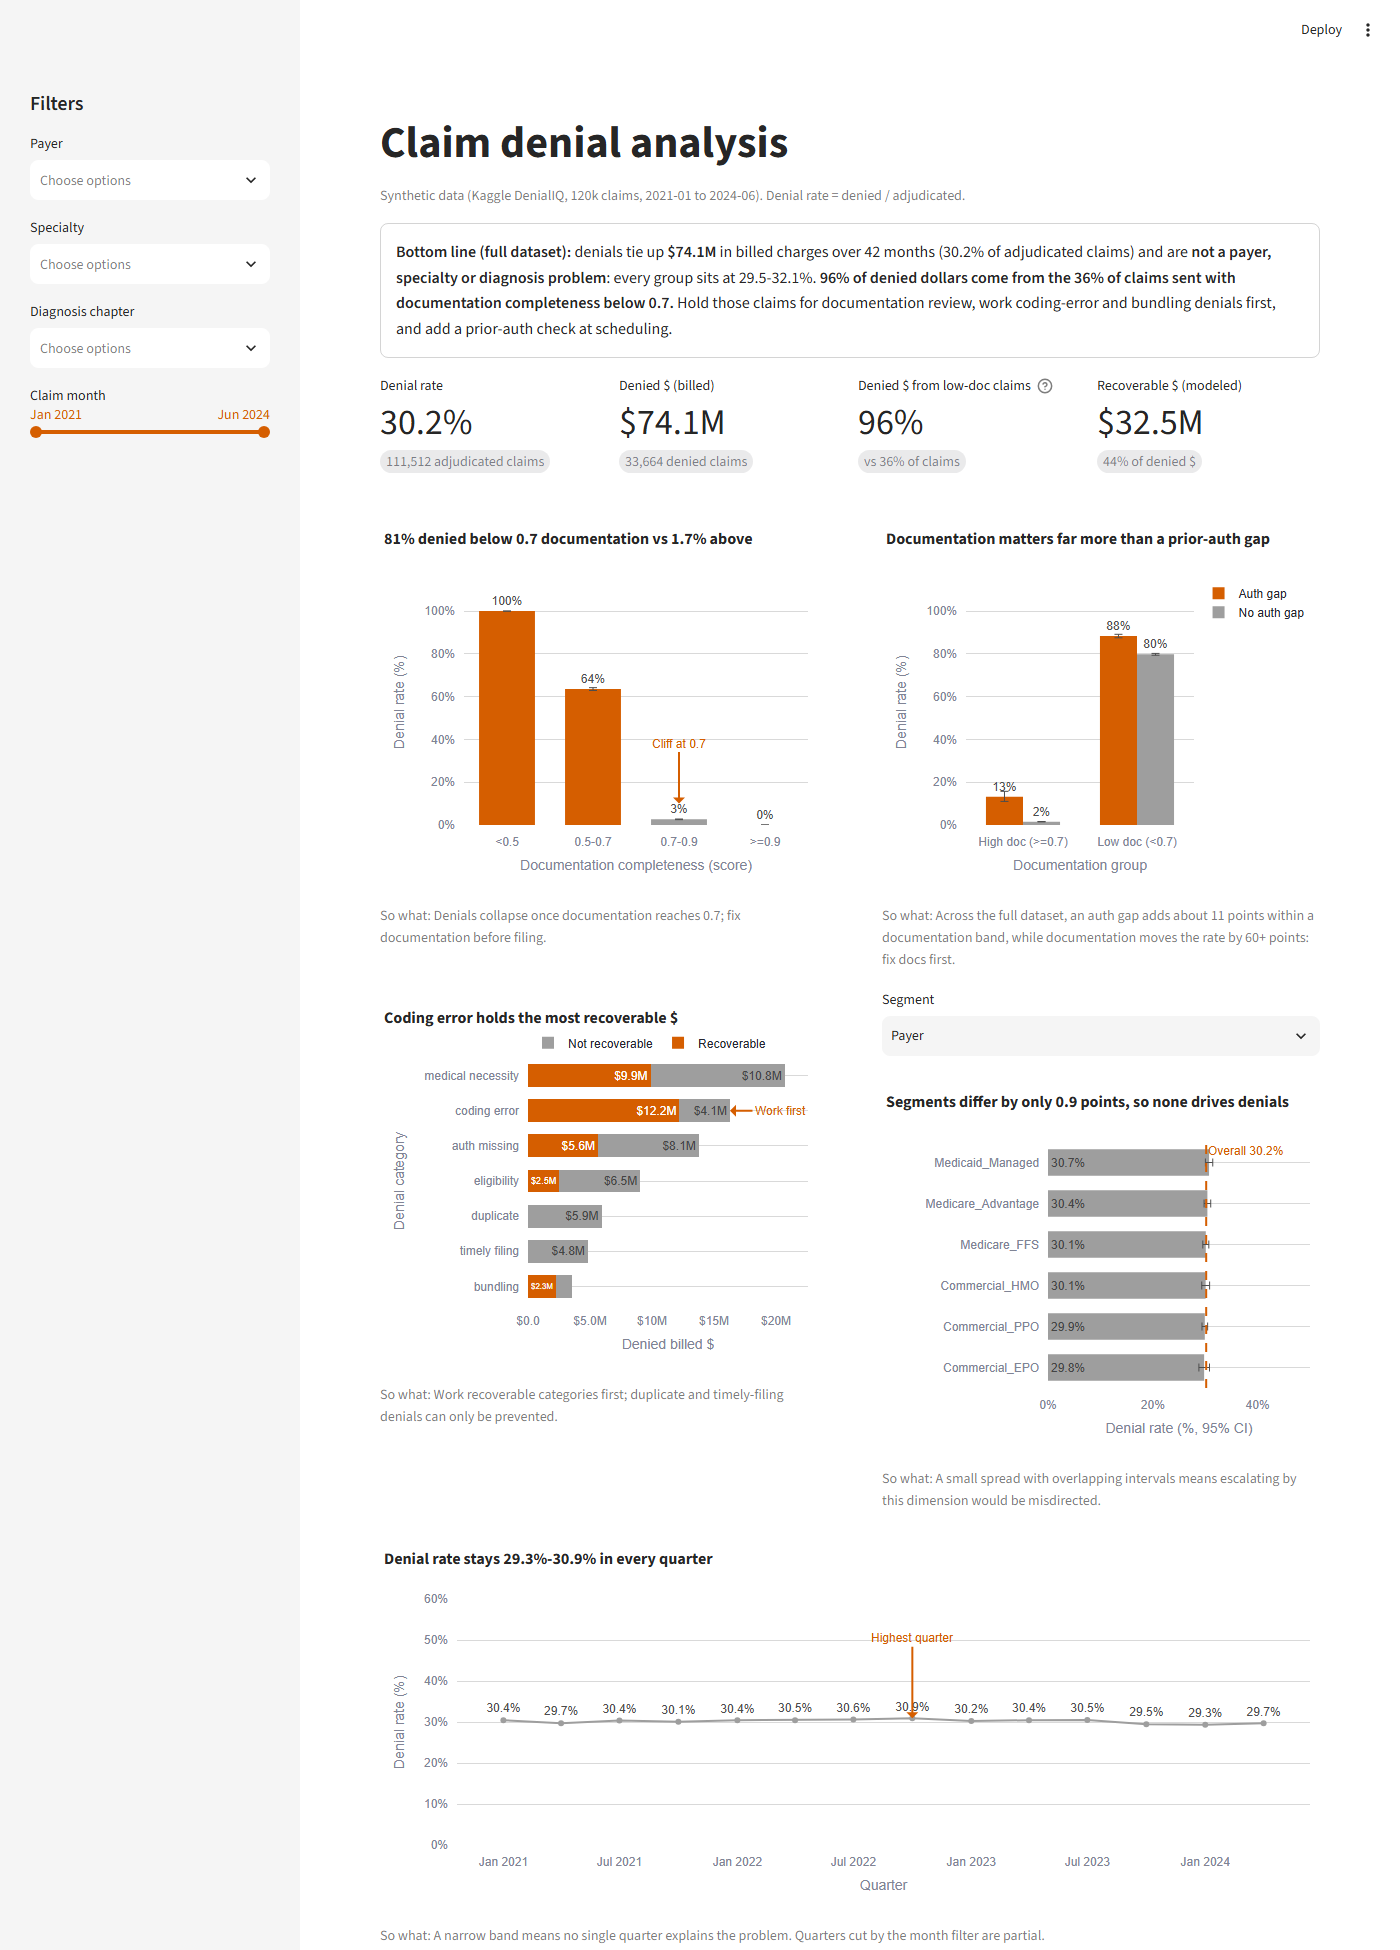
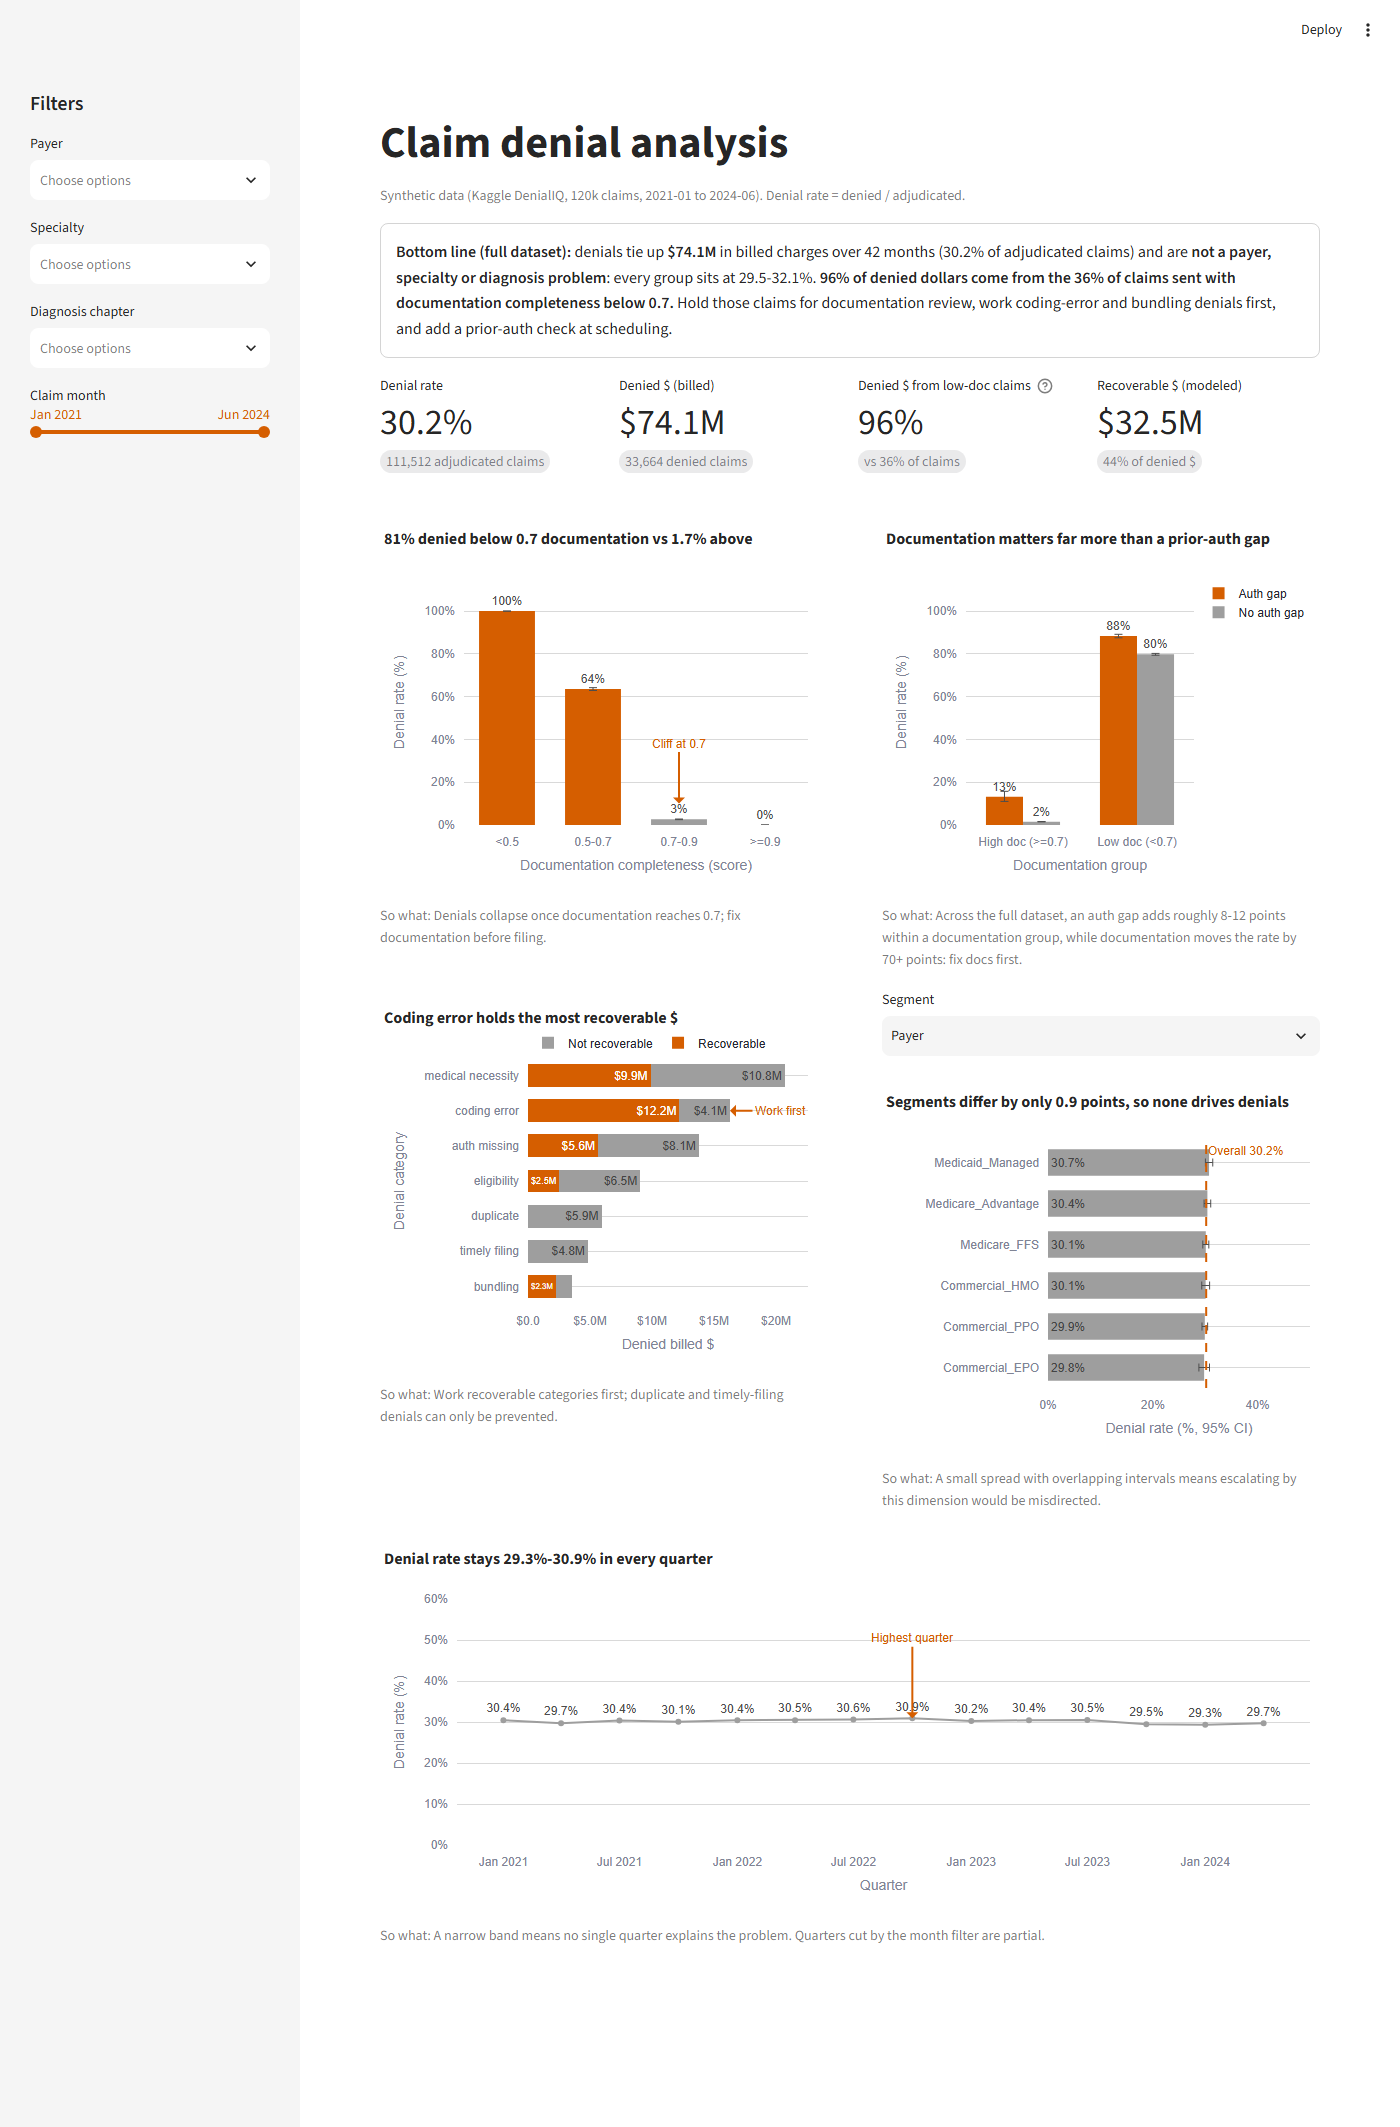
Review fixes: add matplotlib to requirements, derive figure numbers from outputs, accent only key bars, correct auth-gap caption, re-render screenshot

diff --git a/make_figures.py b/make_figures.py
@@ -51,14 +51,15 @@ ax.bar(x + 0.2, a.share_of_denied_usd, 0.4, color=[GREY, ACCENT])
 for xi, v in zip(x - 0.2, a.share_of_claims): ax.text(xi, v + 0.02, f"{v:.0%}", ha="center", fontsize=9)
 for xi, v in zip(x + 0.2, a.share_of_denied_usd): ax.text(xi, v + 0.02, f"{v:.0%}", ha="center", fontsize=9)
 ax.set_xticks(x, ["Adequate doc (>=0.7)", "Low doc (<0.7)"]); ax.yaxis.set_major_formatter(lambda v, _: f"{v:.0%}"); ax.set_ylim(0, 1.1)
-save(f, "denied_dollar_share", "light bar = share of claims, dark bar = share of denied dollars.")
+save(f, "denied_dollar_share", "hold claims below 0.7 for review. Light bar = share of claims, dark bar = share of denied $.")
 
 # 3. payers are flat
 p = rd("02_by_payer").sort_values("denial_rate", ascending=False)
 f, ax = fig_("Payers differ by under 1 point: not a payer problem", "Payer", "Denial rate (%, 95% CI)")
 pct_bars(ax, p.payer_type.str.replace("_", " "), p.denial_rate.values, GREY, p.ci_low.values, p.ci_high.values, one=True)
 ax.set_ylim(0, 0.5); ax.tick_params(axis="x", labelsize=7.5)
-ax.axhline(0.3019, color=ACCENT, ls="--", lw=1); ax.text(5.4, 0.312, "Overall 30.2%", color=ACCENT, ha="right", fontsize=9)
+ov = rd("01_kpis").denial_rate[0]
+ax.axhline(ov, color=ACCENT, ls="--", lw=1); ax.text(5.4, ov + 0.012, f"Overall {ov:.1%}", color=ACCENT, ha="right", fontsize=9)
 save(f, "payer_flat", "escalating payer by payer would be misdirected; overlapping intervals.")
 
 # 4. auth gap within documentation bands
@@ -76,17 +77,18 @@ save(f, "auth_gap_by_doc", "fix documentation first; the auth effect is second-o
 # 5. recoverable by category
 c = rd("06_by_denial_category").assign(nr=lambda t: t.denied_usd - t.recoverable_usd).sort_values("denied_usd")
 f, ax = fig_("Coding errors hold the most recoverable dollars", "Denied billed $ (millions)", "", h=4.2)
-ax.barh(c.denial_category.str.replace("_", " "), c.recoverable_usd / 1e6, color=ACCENT, label="Recoverable (modeled)")
-ax.barh(c.denial_category.str.replace("_", " "), c.nr / 1e6, left=c.recoverable_usd / 1e6, color=GREY, label="Not recoverable")
+key = [ACCENT if k in ("coding_error", "bundling") else GREY for k in c.denial_category]
+ax.barh(c.denial_category.str.replace("_", " "), c.recoverable_usd / 1e6, color=key)
+ax.barh(c.denial_category.str.replace("_", " "), c.nr / 1e6, left=c.recoverable_usd / 1e6, color=GRID)
 for i, (r, t) in enumerate(zip(c.recoverable_usd, c.denied_usd)): ax.text(t / 1e6 + 0.3, i, rf"\${r/1e6:.1f}M of \${t/1e6:.1f}M", va="center", fontsize=8)
-ax.set_xlim(0, 27); ax.legend(frameon=False, loc="lower right", fontsize=8); ax.grid(axis="y", visible=False)
-save(f, "recoverable_by_category", "work coding-error and bundling first; duplicates and late filings can only be prevented.")
+ax.set_xlim(0, 27); ax.grid(axis="y", visible=False)
+save(f, "recoverable_by_category", "work coding-error and bundling first (dark = recoverable); duplicates and late filings only preventable.")
 
 # 6. quarterly trend
 t = rd("07_trend_quarterly")
-f, ax = fig_("Denial rate stays 29.3%-30.9% in every quarter", "Quarter", "Denial rate (%)")
+f, ax = fig_(f"Denial rate stays {t.denial_rate.min():.1%}-{t.denial_rate.max():.1%} in every quarter", "Quarter", "Denial rate (%)")
 ax.plot(t.year_quarter, t.denial_rate, color=GREY, marker="o", lw=2)
 ax.scatter([t.denial_rate.idxmax()], [t.denial_rate.max()], color=ACCENT, zorder=3)
-ax.annotate("Highest: 30.9%", (t.denial_rate.idxmax(), t.denial_rate.max()), (t.denial_rate.idxmax(), 0.40), color=ACCENT, ha="center", arrowprops=dict(arrowstyle="->", color=ACCENT))
+ax.annotate(f"Highest: {t.denial_rate.max():.1%}", (t.denial_rate.idxmax(), t.denial_rate.max()), (t.denial_rate.idxmax(), 0.40), color=ACCENT, ha="center", arrowprops=dict(arrowstyle="->", color=ACCENT))
 ax.set_ylim(0, 0.6); ax.yaxis.set_major_formatter(lambda v, _: f"{v:.0%}"); ax.tick_params(axis="x", rotation=60, labelsize=8)
 save(f, "quarterly_trend", "no single quarter explains the problem, so waiting will not fix it.")

diff --git a/app.py b/app.py
@@ -114,8 +114,8 @@ with c2:
                     text=s["rate"].map("{:.0%}".format), textposition="outside", error_y=err(s))
     layout(fig, "Documentation matters far more than a prior-auth gap",
            "Documentation group", "Denial rate (%)", barmode="group", yaxis=dict(tickformat=".0%", range=[0, 1.15]))
-    show(fig, "Across the full dataset, an auth gap adds about 11 points within a documentation band, while "
-              "documentation moves the rate by 60+ points: fix docs first.")
+    show(fig, "Across the full dataset, an auth gap adds roughly 8-12 points within a documentation group, while "
+              "documentation moves the rate by 70+ points: fix docs first.")
 
 c3, c4 = st.columns(2, gap="large")
 with c3:
